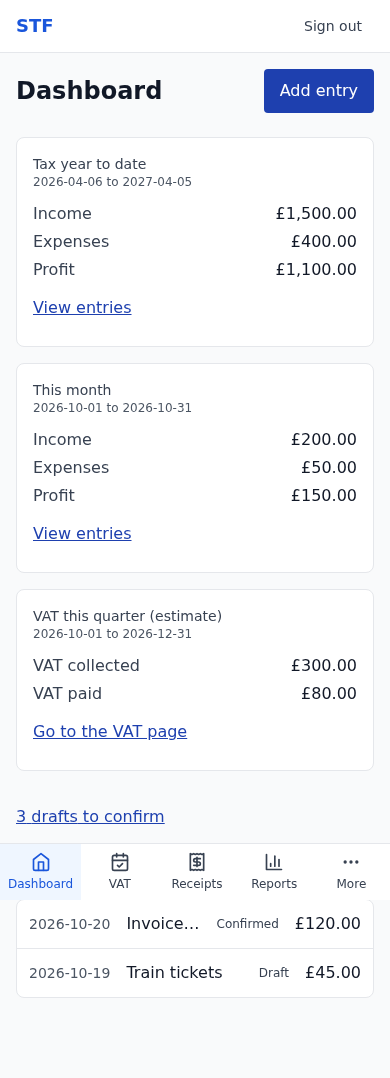
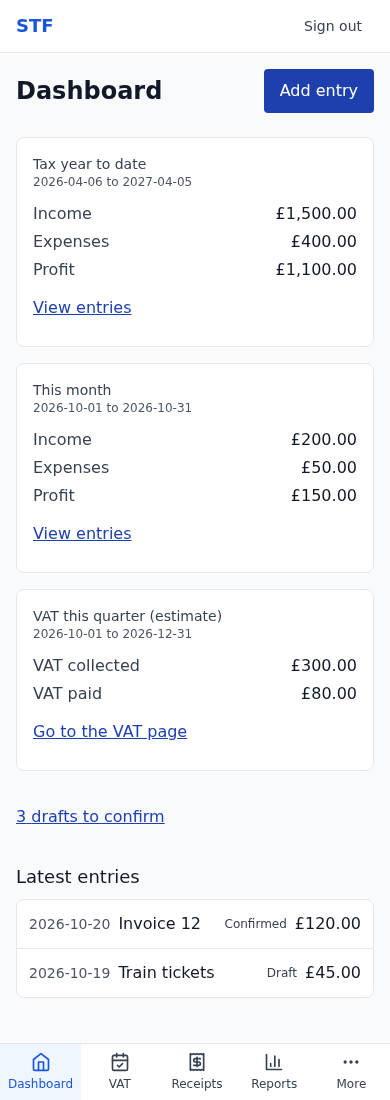
STF-70: recapture 390 data screenshot without nav overlap, tighten latest-entries row gap

diff --git a/src/pages/DashboardPage.tsx b/src/pages/DashboardPage.tsx
@@ -90,7 +90,7 @@ export default function DashboardPage() {
               <h2 className="text-lg font-medium text-gray-900">Latest entries</h2>
               <ul className="mt-2 divide-y divide-gray-200 rounded-lg border border-gray-200 bg-white">
                 {data.recentEntries.map((entry) => (
-                  <li key={entry.id} className="flex items-center justify-between gap-4 p-3">
+                  <li key={entry.id} className="flex items-center justify-between gap-2 p-3">
                     <span className="text-sm text-gray-600">{entry.date}</span>
                     <span className="min-w-0 flex-1 truncate text-gray-900" title={entry.description}>
                       {entry.description}
